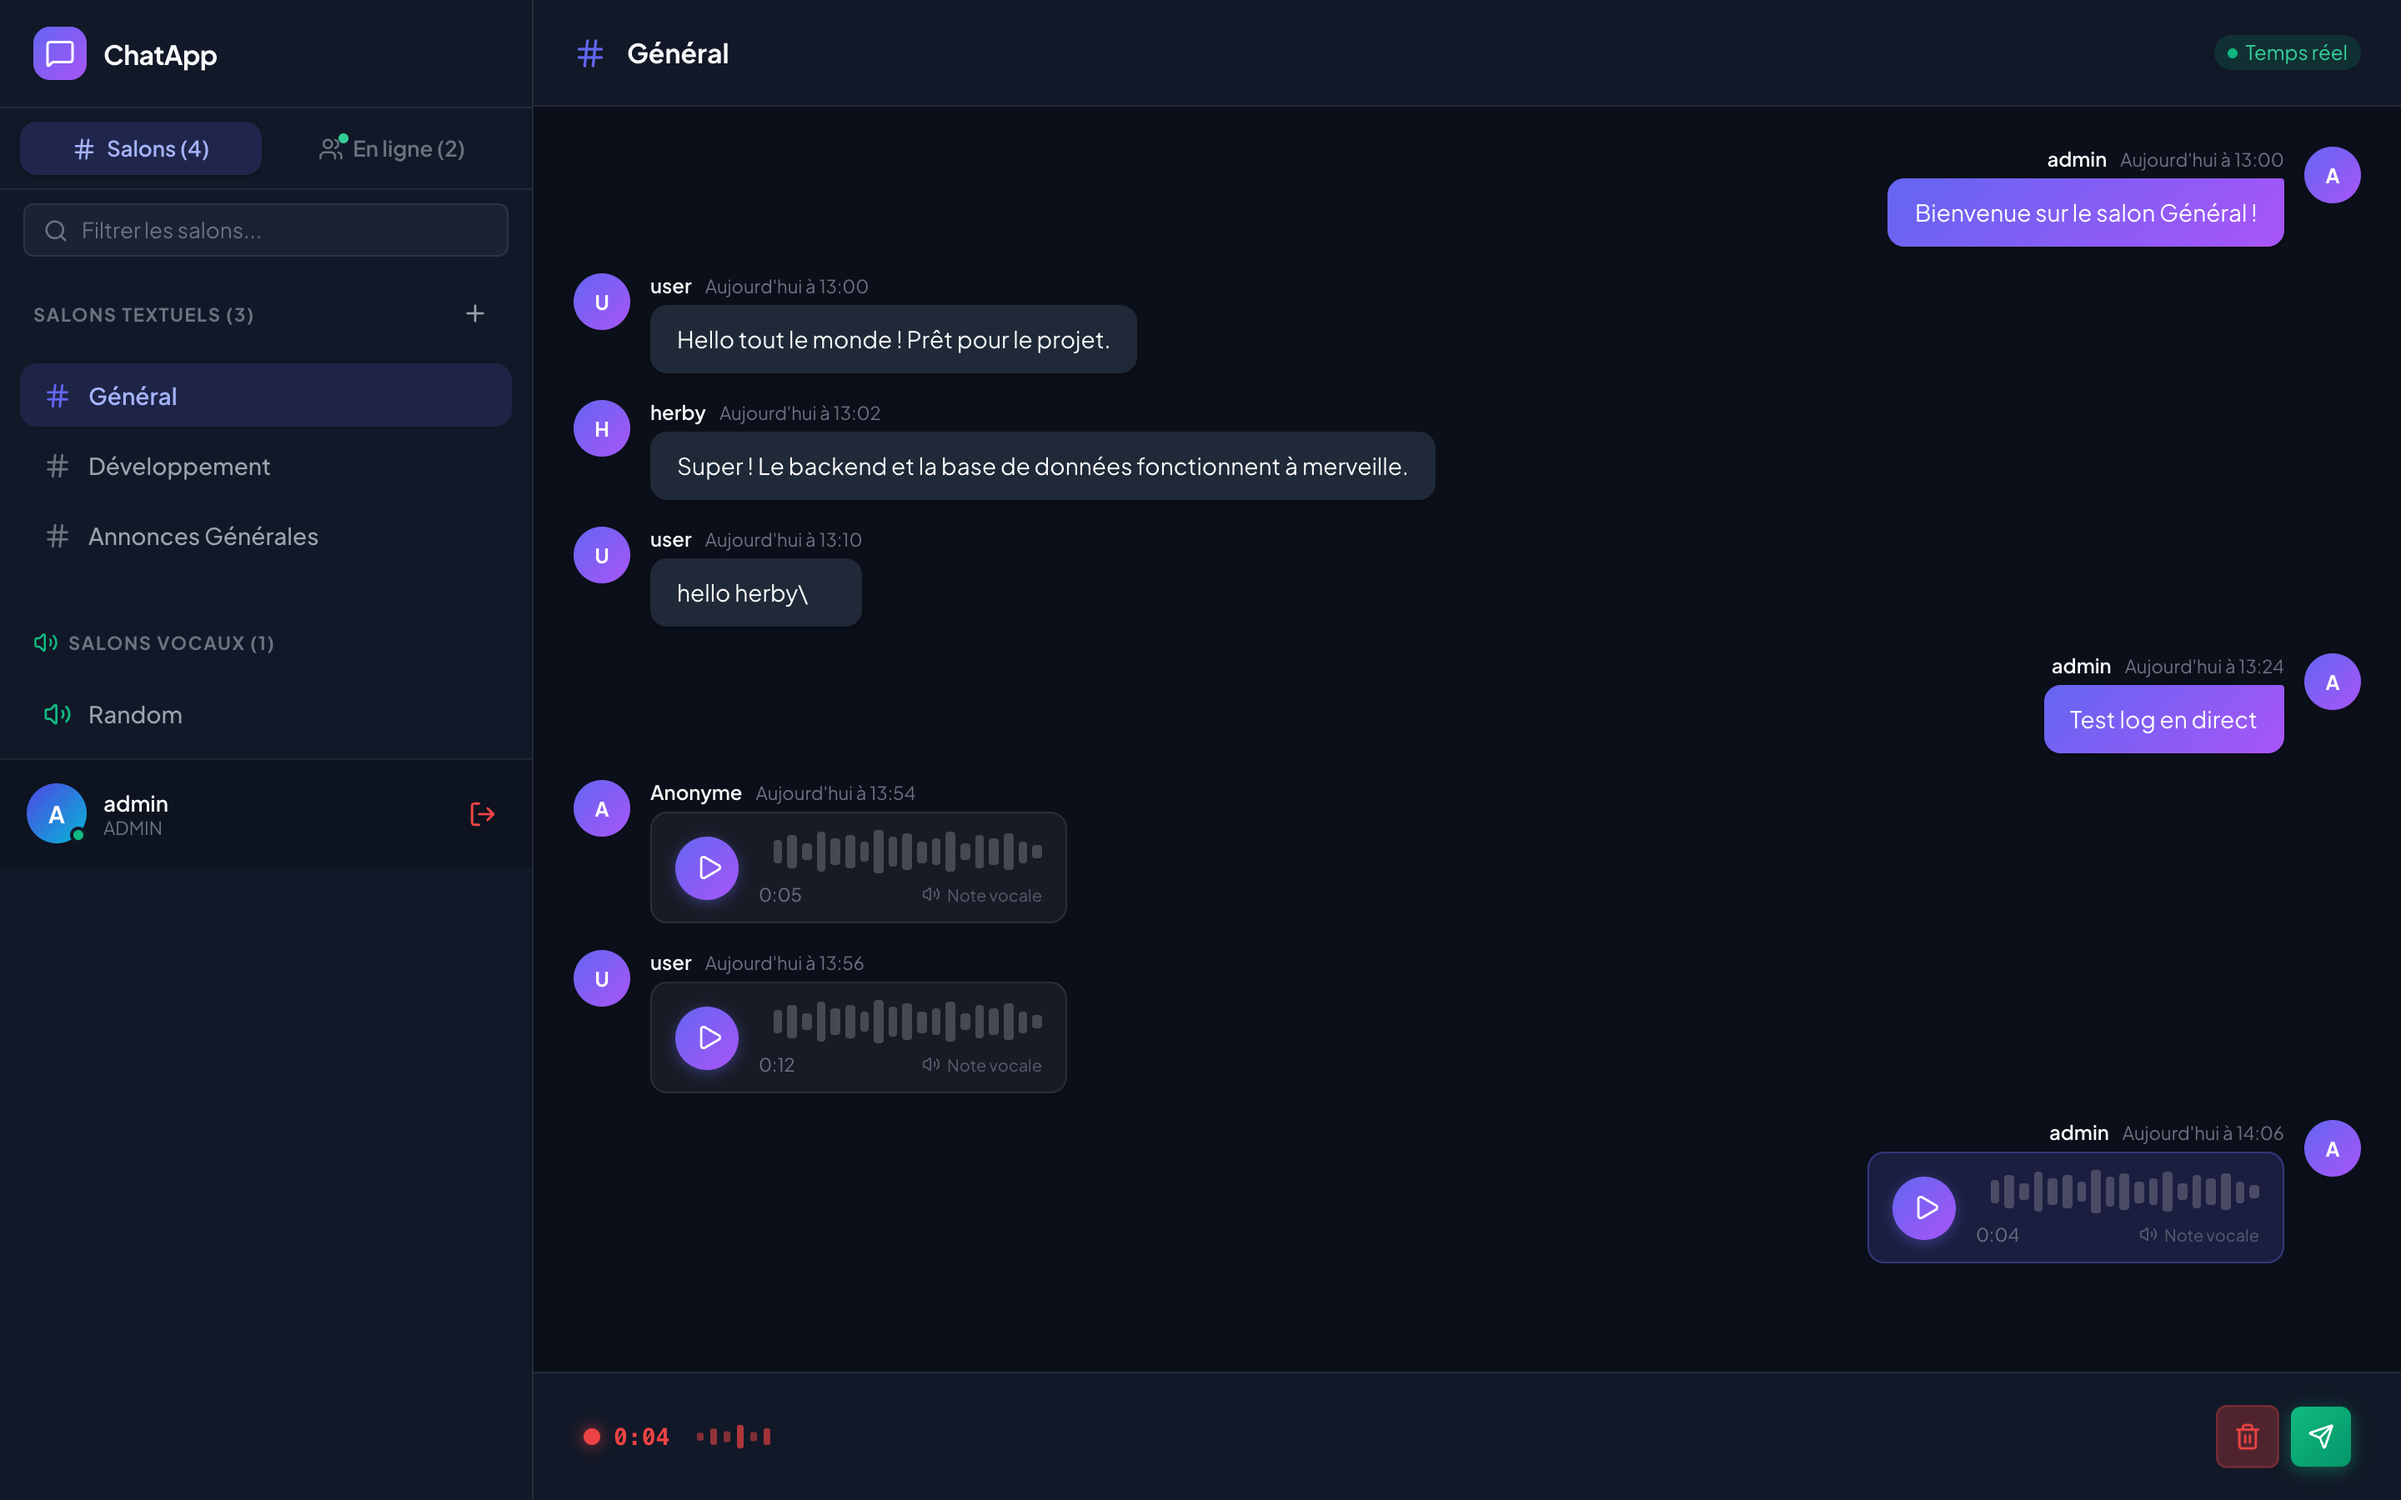
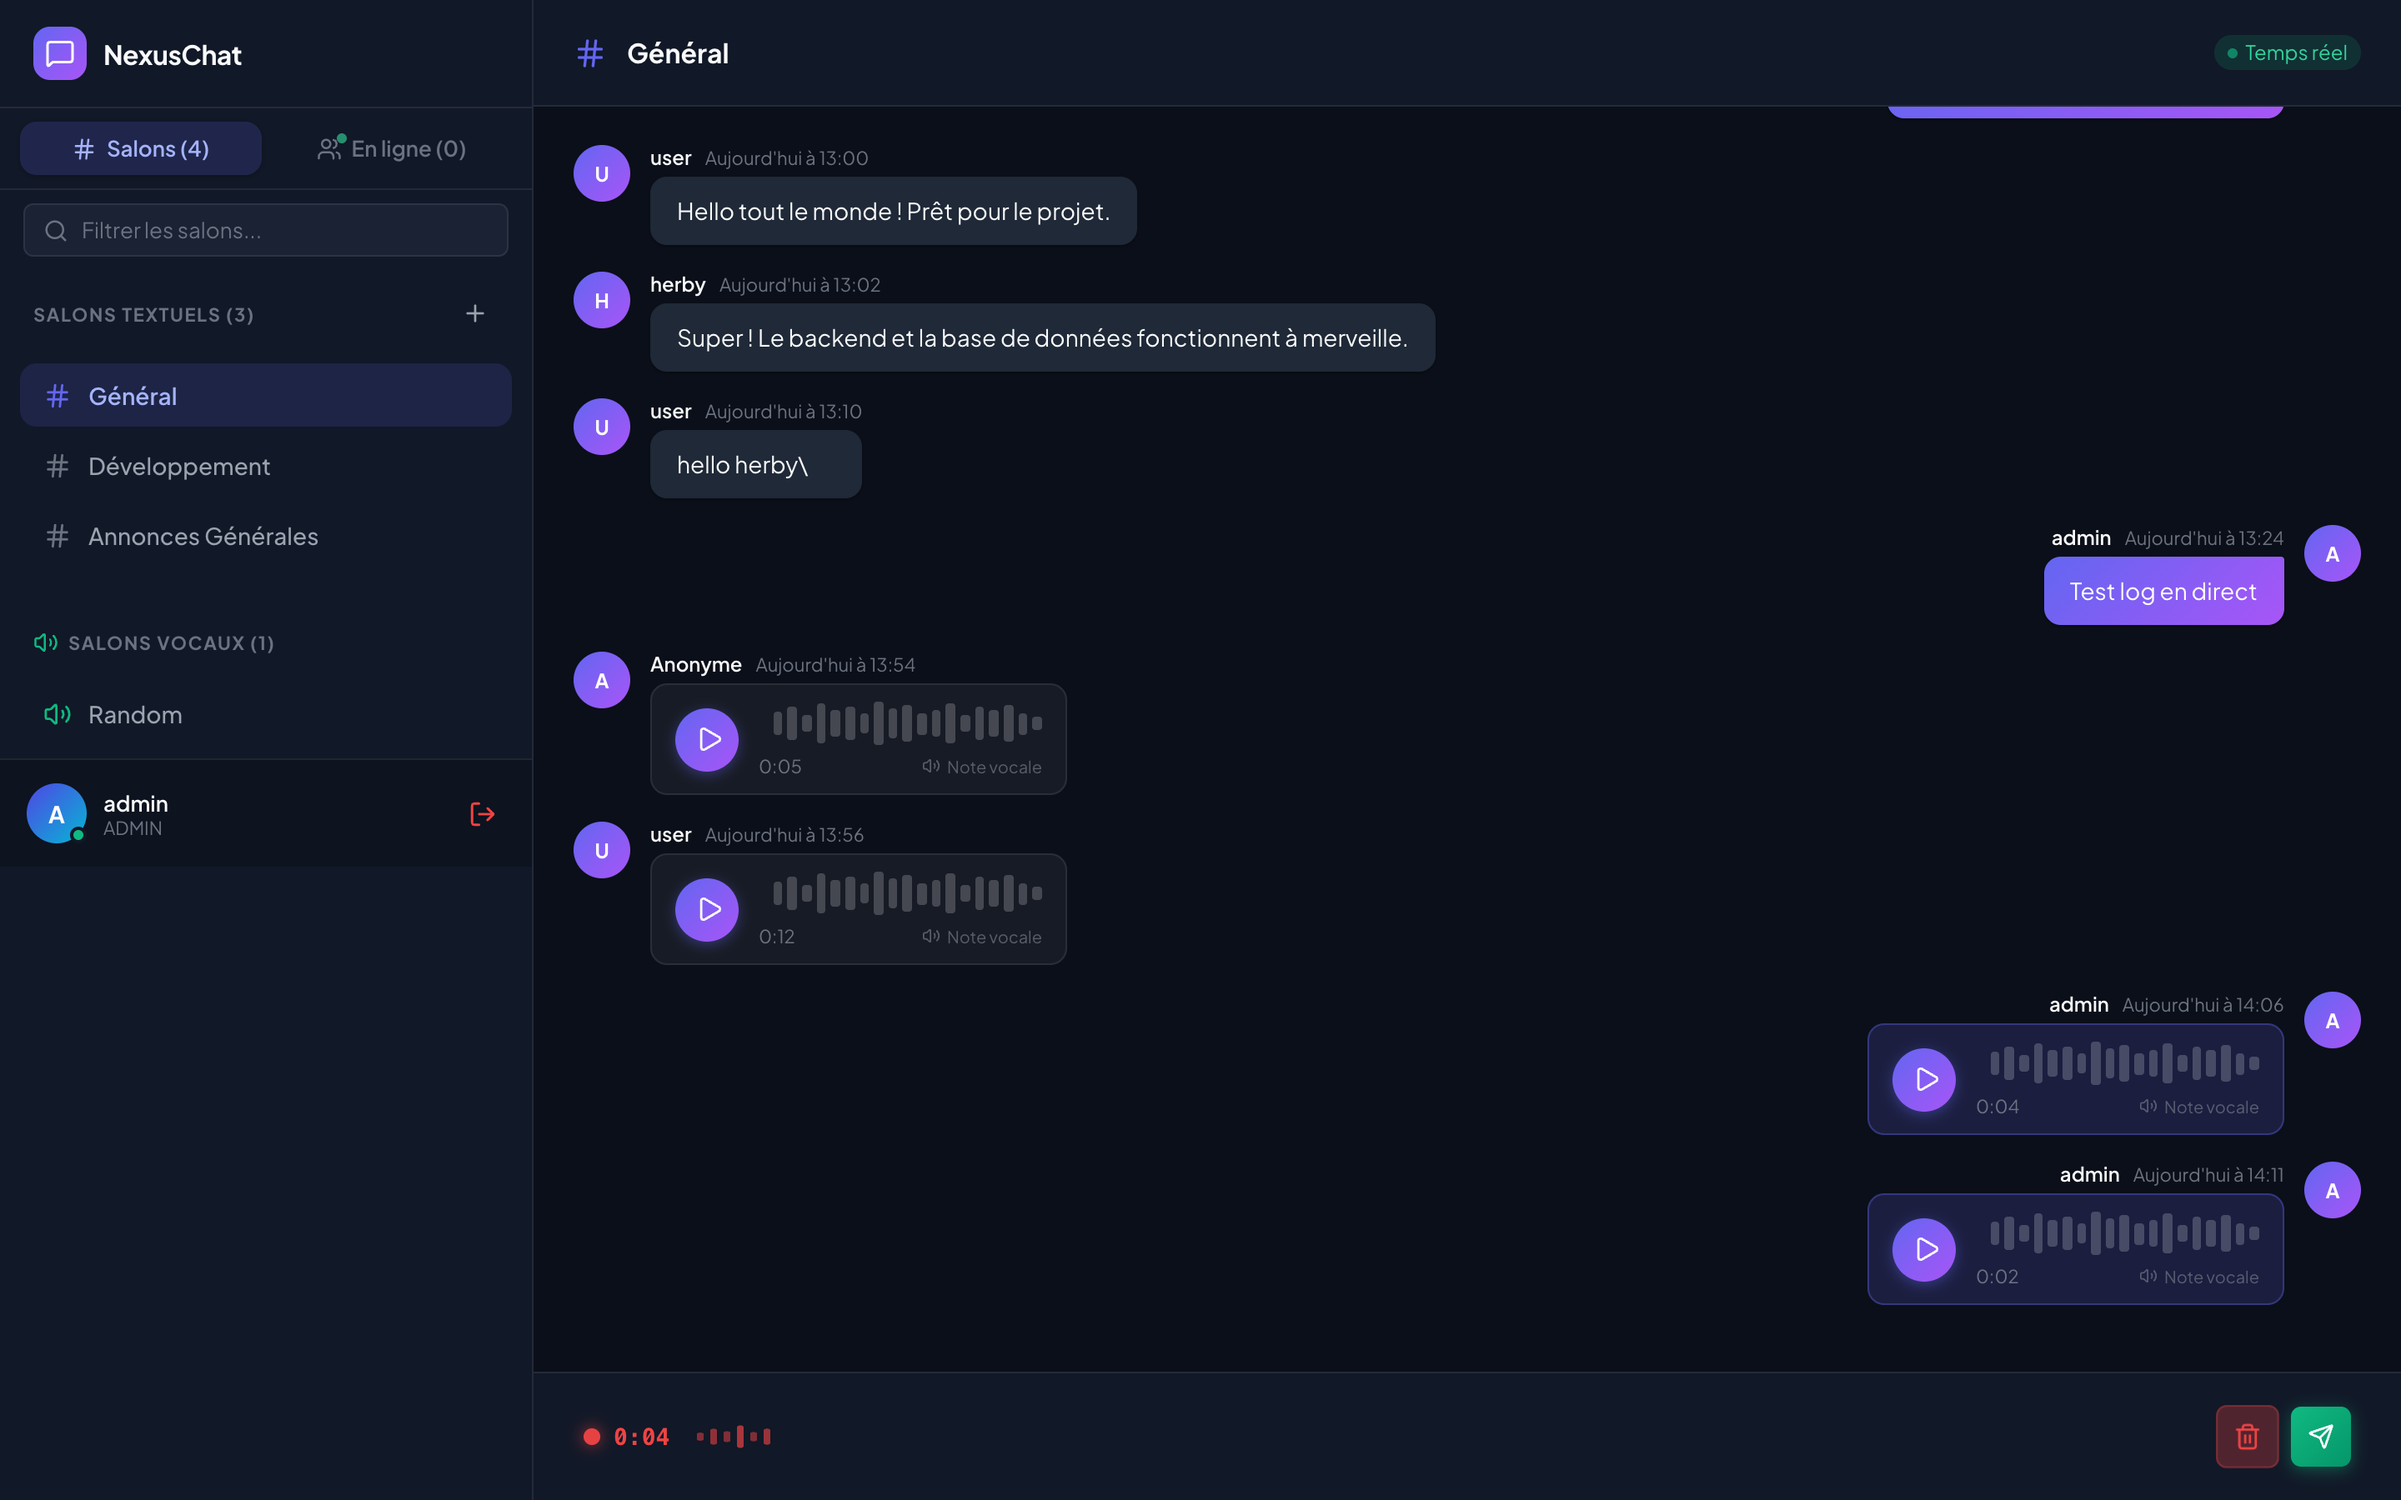
refactor: rename application to NexusChat across UI, branding and documentation

diff --git a/client/index.html b/client/index.html
@@ -4,8 +4,8 @@
     <meta charset="UTF-8" />
     <link rel="icon" type="image/svg+xml" href="/vite.svg" />
     <meta name="viewport" content="width=device-width, initial-scale=1.0" />
-    <title>ChatApp | Messagerie Instantanée Sécurisée</title>
-    <meta name="description" content="Plateforme moderne et sécurisée de messagerie instantanée en temps réel." />
+    <title>NexusChat | Messagerie Instantanée & Salons Vocaux</title>
+    <meta name="description" content="NexusChat — Plateforme moderne de messagerie collaborative, salons vocaux et appels WebRTC." />
     <link rel="preconnect" href="https://fonts.googleapis.com">
     <link rel="preconnect" href="https://fonts.gstatic.com" crossorigin>
     <link href="https://fonts.googleapis.com/css2?family=Plus+Jakarta+Sans:wght@300;400;500;600;700;800&display=swap" rel="stylesheet">

diff --git a/client/src/pages/Register.jsx b/client/src/pages/Register.jsx
@@ -54,7 +54,7 @@ export default function Register() {
             <div className="auth-brand-icon">
               <MessageSquare size={22} />
             </div>
-            <span className="auth-brand-name">ChatApp</span>
+            <span className="auth-brand-name">NexusChat</span>
           </div>
           <p className="auth-subtitle">Rejoignez-nous et discutez en toute sécurité.</p>
         </div>

diff --git a/client/src/pages/Login.jsx b/client/src/pages/Login.jsx
@@ -43,7 +43,7 @@ export default function Login() {
             <div className="auth-brand-icon">
               <MessageSquare size={22} />
             </div>
-            <span className="auth-brand-name">ChatApp</span>
+            <span className="auth-brand-name">NexusChat</span>
           </div>
           <p className="auth-subtitle">Bienvenue ! Connectez-vous à votre espace.</p>
         </div>

diff --git a/client/src/components/Sidebar.jsx b/client/src/components/Sidebar.jsx
@@ -63,7 +63,7 @@ export default function Sidebar({
           <div className="brand-badge">
             <MessageSquare size={18} />
           </div>
-          <span className="brand-title">ChatApp</span>
+          <span className="brand-title">NexusChat</span>
         </div>
       </div>
 

diff --git a/README.md b/README.md
@@ -1,4 +1,4 @@
-# 💬 ChatApp — Plateforme de Communication Temps Réel & Vocale
+# 💬 NexusChat — Plateforme de Communication Temps Réel & Vocale
 
 [![Spring Boot](https://img.shields.io/badge/Spring%20Boot-3.1.5-brightgreen.svg)](https://spring.io/projects/spring-boot)
 [![React](https://img.shields.io/badge/React-18-blue.svg)](https://reactjs.org/)
@@ -8,7 +8,7 @@
 [![Docker](https://img.shields.io/badge/Docker-Compose-2496ED.svg)](https://www.docker.com/)
 [![MariaDB](https://img.shields.io/badge/MariaDB-10.11-003545.svg)](https://mariadb.org/)
 
-**ChatApp** est une application web moderne de messagerie collaborative combinant la fluidité d'une messagerie instantanée, la flexibilité des salons vocaux style **Discord**, la puissance des appels directs pair-à-pair **WebRTC**, et la gestion de présence / statuts d'activité inspirée de **Microsoft Teams**.
+**NexusChat** est une application web moderne de messagerie collaborative combinant la fluidité d'une messagerie instantanée, la flexibilité des salons vocaux style **Discord**, la puissance des appels directs pair-à-pair **WebRTC**, et la gestion de présence / statuts d'activité inspirée de **Microsoft Teams**.
 
 ---
 
@@ -199,7 +199,7 @@ npm run build
 ## 📂 Structure du Répertoire
 
 ```text
-ChatApp/
+NexusChat/
 ├── client/                     # Application Frontend React 18 + Vite
 │   ├── src/
 │   │   ├── components/         # Composants UI (Chat, AudioPlayer, CallModal...)
